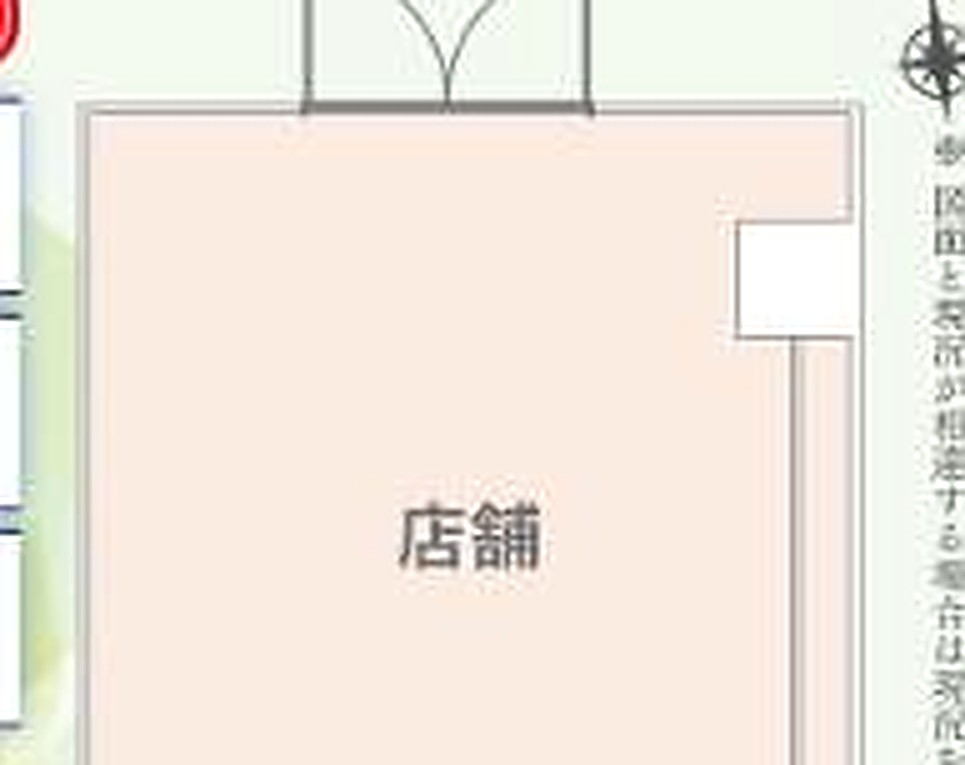
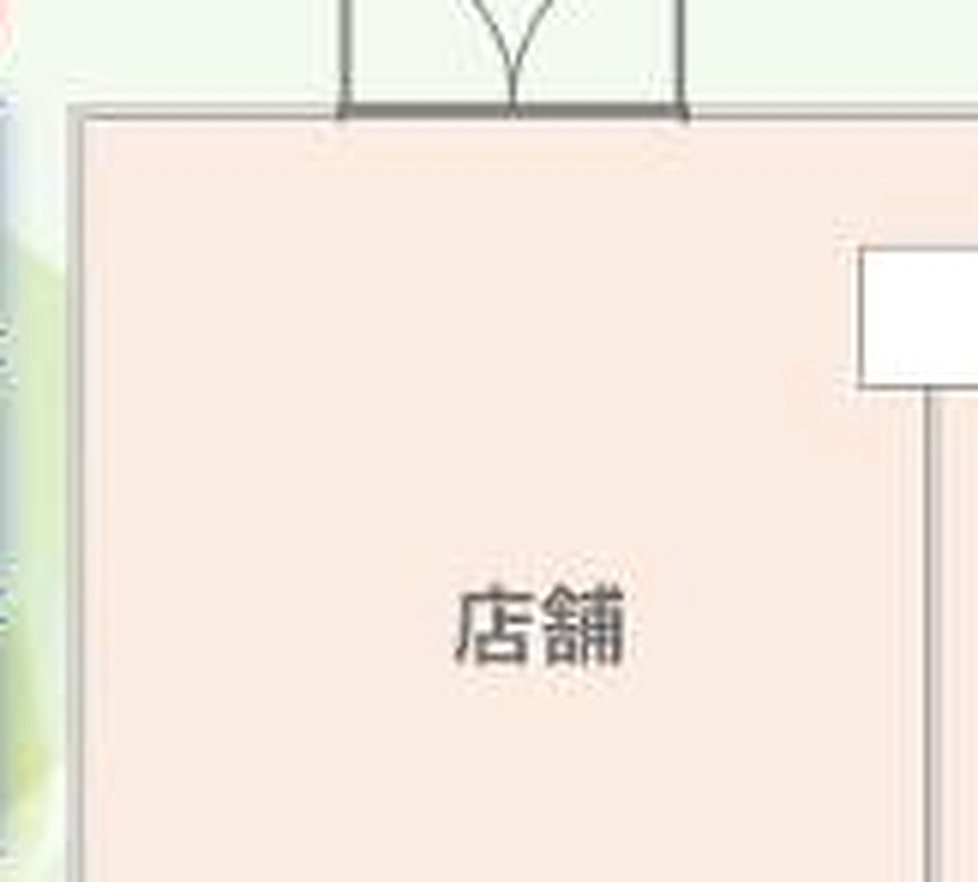
物件專區：繁⇄簡語言切換器＋平面圖收邊＋交接文件更新 (#81)
* 物件專區：上架雲端 3 筆新自住物件（戶越公園701・四谷三丁目115・龜戶209）＋照片

從周周雲端「claude用」資料夾補上上次斷線前未上架的 3 筆：
- ジェイパーク戸越公園アーキテクト 701（12,998万円 2LDK+DEN 三面採光角戶）
- ルート四谷三丁目 115（6,498万円 1LDK 南向角戶）
- ハイネス亀戸 209（3,480万円 2LDK 翻新）
每筆精選 6 張照片（壓縮至寬1500px內），資料依販売図面/摘要核實（權利皆所有權），
已濾除賣家公司資訊，推薦語保守、導 LINE。繁中/簡中共用 properties.js 自動同步。

Claude-Session: https://claude.ai/code/session_01QYNtcF3wAEFzx55c9TcywV

* 交接文件：補記物件專區功能＋翻譯機後台強化＋更新待辦

PROJECT_STATUS.md 停在 2026-07-01，缺整個物件專區（properties.js/html、
相簿燈箱、admin 後台）與 #63–#78 這批工程。補上：
- §2 新增物件專區與翻譯機後台強化說明
- §4 待辦補上投資物件缺照片、properties-ja 未做
- §8 檔案表補齊 properties.* / prop-*.jpg / admin/，並標記孤兒檔 property-admin.html
- §9 已知問題同步

Claude-Session: https://claude.ai/code/session_01QYNtcF3wAEFzx55c9TcywV

* 物件專區：10 筆投資店舖補上外觀照＋平面圖（來源型錄裁切＋畫質修復）

從周周雲端 ムゲンエステート 型錄（マイソク）逐張裁出每筆的「建物外觀照＋平面圖」，
本地畫質修復（4倍放大＋去噪＋銳化＋色彩校正）後上架：
- 10 筆投資物件從 photos:[] 補上照片（shinjuku 空室多一張空屋室內照）
- 一律選整棟外觀照與平面圖，避開帶承租商家招牌的店面近照（合規）
- 來源為低解析度宣傳單，畫質為堪用等級，非自住物件那種實景高清

繁中/簡中共用 properties.js 自動同步，不需重跑產生器。

Claude-Session: https://claude.ai/code/session_01QYNtcF3wAEFzx55c9TcywV

* 物件專區：加繁⇄簡語言切換器＋平面圖收邊＋交接文件更新

- properties.html 加自偵測 🌐 語言切換器（繁體⇄簡體，無日文版故不放日文選項），
  插入 .hnav、當前語言標 active；build-cn 重跑同步 properties-cn.html（按鈕自動轉「语言」）。
- 神樂坂/御徒町/方南町 3 張平面圖裁切收邊，去掉殘留文字。
- PROJECT_STATUS.md：補記投資照片為型錄裁切可替換；更正 property-admin.html 實為
  舊網址轉址（→/admin/）非孤兒檔、勿刪。

Claude-Session: https://claude.ai/code/session_01QYNtcF3wAEFzx55c9TcywV

---------

diff --git a/properties-cn.html b/properties-cn.html
@@ -249,5 +249,6 @@ footer a{color:#d6d3d1;text-decoration:none}
   } else { boot(); }
 })();
 </script>
+<!--langswitch--><script>(function(){var p=location.pathname.split('/').pop()||'properties.html';var isCn=(p.slice(-8)==='-cn.html');var twHref,cnHref;if(isCn){twHref=p.slice(0,-8)+'.html';cnHref=p;}else{twHref=p;cnHref=p.slice(0,-5)+'-cn.html';}var cur=isCn?'cn':'tw';function mk(label,href,key){var a=document.createElement('a');a.href=href;a.target='_blank';a.rel='noopener';a.textContent=label;a.setAttribute('data-lang',key);var active=(key===cur);a.style.cssText='display:block;padding:9px 14px;font-size:14px;text-decoration:none;border-radius:8px;white-space:nowrap;'+(active?'color:#f43f5e;font-weight:700;background:#fff1f2':'color:#292524');if(active)a.setAttribute('aria-current','page');return a;}var wrap=document.createElement('div');wrap.style.cssText='position:relative;flex:0 0 auto';var btn=document.createElement('button');btn.type='button';btn.textContent='🌐 语言';btn.setAttribute('aria-label','切换语言 / Language / 语言');btn.style.cssText='background:#fff;border:1px solid #e7e5e4;border-radius:999px;font-size:13px;font-weight:700;color:#57534e;padding:6px 12px;cursor:pointer;font-family:inherit;white-space:nowrap';var menu=document.createElement('div');menu.style.cssText='display:none;position:absolute;top:calc(100% + 6px);right:0;background:#fff;border:1px solid #e7e5e4;border-radius:12px;box-shadow:0 8px 24px rgba(0,0,0,.12);padding:6px;min-width:130px;z-index:200';menu.appendChild(mk('繁体中文',twHref,'tw'));menu.appendChild(mk('简体中文',cnHref,'cn'));btn.onclick=function(e){e.stopPropagation();menu.style.display=(menu.style.display==='block')?'none':'block';};document.addEventListener('click',function(){menu.style.display='none';});wrap.appendChild(btn);wrap.appendChild(menu);var hnav=document.querySelector('header .hnav');if(hnav){var line=hnav.querySelector('.btn-line');if(line){hnav.insertBefore(wrap,line);}else{hnav.appendChild(wrap);}return;}wrap.style.cssText+=';position:fixed;top:10px;right:12px;z-index:210';document.body.appendChild(wrap);})();</script>
 </body>
 </html>

diff --git a/properties.html b/properties.html
@@ -249,5 +249,6 @@ footer a{color:#d6d3d1;text-decoration:none}
   } else { boot(); }
 })();
 </script>
+<!--langswitch--><script>(function(){var p=location.pathname.split('/').pop()||'properties.html';var isCn=(p.slice(-8)==='-cn.html');var twHref,cnHref;if(isCn){twHref=p.slice(0,-8)+'.html';cnHref=p;}else{twHref=p;cnHref=p.slice(0,-5)+'-cn.html';}var cur=isCn?'cn':'tw';function mk(label,href,key){var a=document.createElement('a');a.href=href;a.target='_blank';a.rel='noopener';a.textContent=label;a.setAttribute('data-lang',key);var active=(key===cur);a.style.cssText='display:block;padding:9px 14px;font-size:14px;text-decoration:none;border-radius:8px;white-space:nowrap;'+(active?'color:#f43f5e;font-weight:700;background:#fff1f2':'color:#292524');if(active)a.setAttribute('aria-current','page');return a;}var wrap=document.createElement('div');wrap.style.cssText='position:relative;flex:0 0 auto';var btn=document.createElement('button');btn.type='button';btn.textContent='🌐 語言';btn.setAttribute('aria-label','切換語言 / Language / 语言');btn.style.cssText='background:#fff;border:1px solid #e7e5e4;border-radius:999px;font-size:13px;font-weight:700;color:#57534e;padding:6px 12px;cursor:pointer;font-family:inherit;white-space:nowrap';var menu=document.createElement('div');menu.style.cssText='display:none;position:absolute;top:calc(100% + 6px);right:0;background:#fff;border:1px solid #e7e5e4;border-radius:12px;box-shadow:0 8px 24px rgba(0,0,0,.12);padding:6px;min-width:130px;z-index:200';menu.appendChild(mk('繁體中文',twHref,'tw'));menu.appendChild(mk('简体中文',cnHref,'cn'));btn.onclick=function(e){e.stopPropagation();menu.style.display=(menu.style.display==='block')?'none':'block';};document.addEventListener('click',function(){menu.style.display='none';});wrap.appendChild(btn);wrap.appendChild(menu);var hnav=document.querySelector('header .hnav');if(hnav){var line=hnav.querySelector('.btn-line');if(line){hnav.insertBefore(wrap,line);}else{hnav.appendChild(wrap);}return;}wrap.style.cssText+=';position:fixed;top:10px;right:12px;z-index:210';document.body.appendChild(wrap);})();</script>
 </body>
 </html>

diff --git a/PROJECT_STATUS.md b/PROJECT_STATUS.md
@@ -41,8 +41,9 @@
 - 所有物件資料集中在 **`properties.js` 的 `window.PROPERTIES` 陣列**（周周可自行編輯），頁面用 JS 渲染卡片，**繁中／簡中共用同一份 `properties.js`**，簡中在瀏覽器即時 OpenCC 轉換，**只改資料檔不需重跑任何產生器**（改版型才要重跑 `build-cn.cjs`）。
 - 每筆欄位：`id/status(在售·洽談中·已成約)/cat(invest·live·house·land)/title/price/location/station/layout/size/age/facing/mgmt/right/yield(投資才填)/photos([...])/note(周周推薦語)`；`photos` 第一張=封面、其餘進**相簿燈箱**（卡片右下顯示「📷 N」，可左右滑看）。`photos:[]` 則顯示「照片準備中」。
 - 照片放 root，命名 `prop-<id>-N.jpg`，上架前壓到寬 1500px 內。**務必濾除賣家/來源公司聯絡資訊**；投資物件 note 要保守（表面利回為毛數字、依租況、不保證報酬），貸款一律「依銀行審查為準」。
-- 目前 **18 筆**：8 筆自住（含 2026-07-10 從周周雲端補上的 togoshi701／yotsuya115／kameido209 三筆翻新宅，皆有 6 張照片）＋10 筆投資店舖（來自「ムゲンエステート」型錄，**目前 `photos:[]` 尚無照片**）。
-- 後台工具 `admin/index.html`（物件登錄小工具，貼販売図面資料自動辨識產生 `properties.js` 片段）、`admin/logs.html`（翻譯機紀錄）。root 另有一支**孤兒檔 `property-admin.html`**（舊版登錄工具，全站無任何連結指向，功能已被 `admin/` 取代，可清）。
+- 目前 **18 筆**：8 筆自住（含 2026-07-10 從周周雲端補上的 togoshi701／yotsuya115／kameido209 三筆翻新宅，皆有 6 張實景照）＋10 筆投資店舖（來自「ムゲンエステート」型錄）。
+- **投資店舖照片（2026-07-10 補上）**：來源是型錄（マイソク 宣傳單）低解析度影像，逐張裁出「建物外觀照＋平面圖」再本地畫質修復（4倍放大＋去噪＋銳化），屬**堪用等級、非高清**。一律選整棟外觀、避開帶承租商家招牌的店面近照（合規）。**這些是型錄裁切圖，之後若拿到賣家乾淨原始照可直接同名覆蓋 `prop-<id>-N.jpg` 替換**。裁切原始檔與座標當時在暫存區，已不保留，要重裁需重新從型錄定位。
+- 後台工具 `admin/index.html`（物件登錄小工具，貼販売図面資料自動辨識產生 `properties.js` 片段）、`admin/logs.html`（翻譯機紀錄）。root 的 `property-admin.html` **不是廢棄檔，是「舊網址轉址」**：`<meta refresh>`＋`location.replace` 把 `/property-admin.html` 轉到 `/admin/`，保留舊書籤/舊連結相容（robots.txt 也 Disallow 它）。**要留著**，勿當孤兒檔刪。
 
 **翻譯機 `translate.html`**
 - 上傳日文房產圖面（JPG）→ 翻成中文＋整理重點，含地圖、物件分析、翻新資訊
@@ -74,7 +75,7 @@
 
 ## 4. 尚未完成 / 待辦（依優先順序）
 
-0. **物件專區：10 筆投資店舖沒照片、日文版未做**。(a) 那 10 筆投資物件 `photos:[]`，來源是周周 Google Drive「claude用/ムゲンエステート」型錄（PDF 18MB 超過 MCP 下載上限、docx 9.5MB 也曾遇 Drive session 過期抓不到）；且都是**現況出租中的 1 樓店舖/事務所**，型錄照片多為店面外觀、易帶到承租商家招牌名稱（第三方資訊），要放前先跟周周確認是否要放、並務必去除招牌/商號。(b) `properties.html`/`-cn.html` 已有，但**沒有 `properties-ja.html`**（三語站其他頁都有日文版，這頁還缺）；要做需比照工具頁手寫日文外殼＋讓 `properties.js` 卡片文案支援日文（目前資料是繁中）。
+0. **物件專區：投資照片畫質偏低、日文版未做**。(a) 10 筆投資店舖已補上型錄裁切的「外觀＋平面圖」（見第 2 節），但**畫質僅堪用**；要更清晰只能換賣家的乾淨原始照，拿到後同名覆蓋 `prop-<id>-N.jpg` 即可。(b) `properties.html`/`-cn.html` 已有（含右上 🌐 繁⇄簡切換器），但**沒有 `properties-ja.html`**（周周 2026-07-10 指示日文版先不做；其他頁都有日文版，這頁還缺）；要做需比照工具頁手寫日文外殼＋讓 `properties.js` 卡片文案支援日文（目前資料是繁中）。
 1. **a1、a3、a5 尚未升級成長文＋數據版**（這是 2026-06-21 就列出的舊待辦，至今仍未處理；期間網站重心轉往三語擴站，這三篇被擱置）。若要做，比照 a2／a6 的長文結構：開場 → 附資料來源的數據框 → 比較 → 分析 → 💡周周提醒 → CTA，動手前務必先 web 查最新真實數據。
 2. **6 篇文章缺少「本篇目錄」**：目錄產生邏輯要求文章內至少 4 個 `<p><b>小標</b>...` 格式的段落開頭才會顯示目錄，這 6 篇因為小標數不足沒有目錄。周周尚未決定是否要為這幾篇補小標，維持現狀即可，之後周周有指示再處理。
 3. **Google Search Console 收錄**：已給周周分批網址清單，需要持續追蹤「Coverage」報表，若有頁面卡在「已探索－尚未建立索引」再協助診斷（通常是內容單薄或跟其他頁太像，不是技術錯誤）。
@@ -154,13 +155,13 @@
 | `properties.js` | 物件專區資料檔（`window.PROPERTIES` 陣列），繁中/簡中共用，周周可自行編輯；只改資料不需重跑產生器。 |
 | `prop-<id>-N.jpg` | 物件照片（第一張=封面、其餘進相簿），全放 root，上架前壓到寬 1500px 內。 |
 | `admin/index.html` / `admin/logs.html` | 後台：物件登錄小工具、翻譯機紀錄。 |
-| `property-admin.html` | ⚠️ 孤兒檔（舊版物件登錄工具，全站無連結、已被 `admin/` 取代，可清）。 |
+| `property-admin.html` | 舊網址轉址檔：`/property-admin.html`→`/admin/`（保留舊書籤相容，勿刪）。 |
 
 ---
 
 ## 9. 已知問題（非緊急，記錄用）
 
-- 物件專區 10 筆投資店舖尚無照片、且無日文版 `properties-ja.html`（見第 4 節第 0 點）。
+- 物件專區 10 筆投資店舖照片為型錄裁切、畫質僅堪用（可換原始照替換）；且無日文版 `properties-ja.html`（見第 4 節第 0 點）。
 - a1／a3／a5 三篇文章內容偏短（約 2000～2400 字元），尚未做「長文＋數據版」升級（見第 4 節第 1 點）。
 - 6 篇文章因小標數不足沒有自動產生的「本篇目錄」，屬正常行為非 bug，周周尚未要求處理。
 - 翻譯機解鎖碼 `ZHOUZHOU` 屬簡易前端驗證，看原始碼即可得知，非真正安全機制（周周已知悉，暫不更動）。